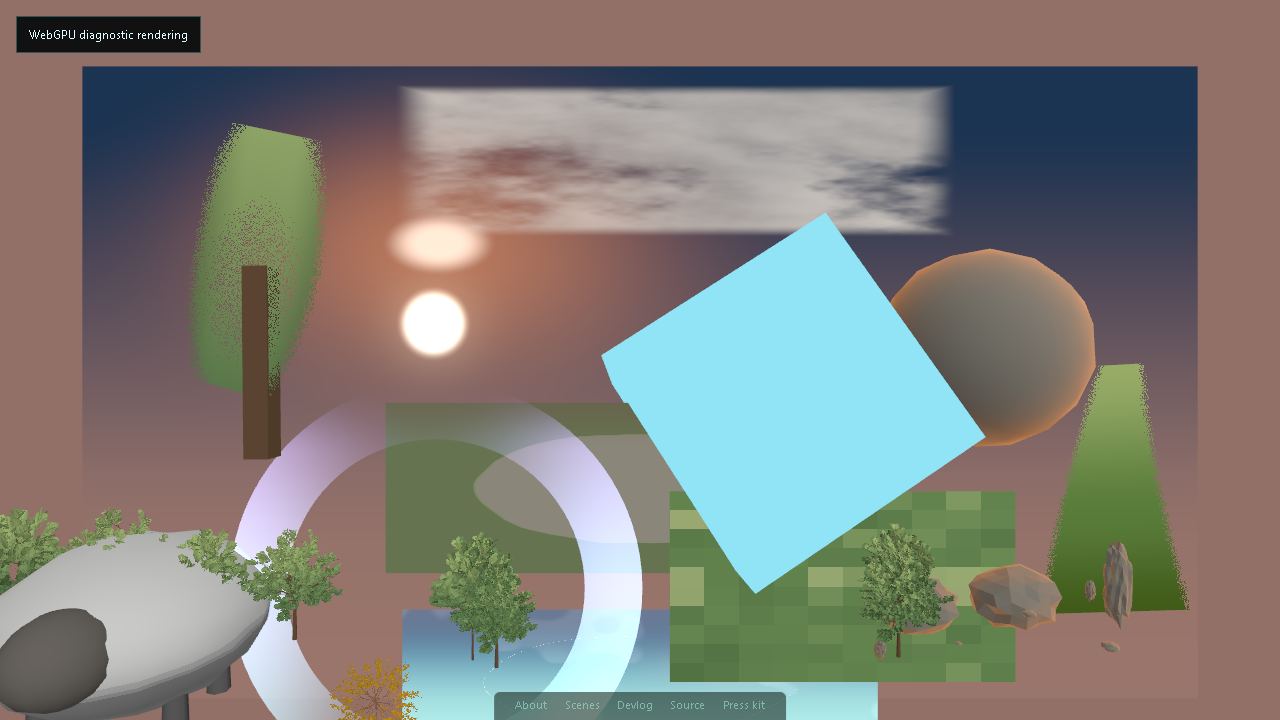
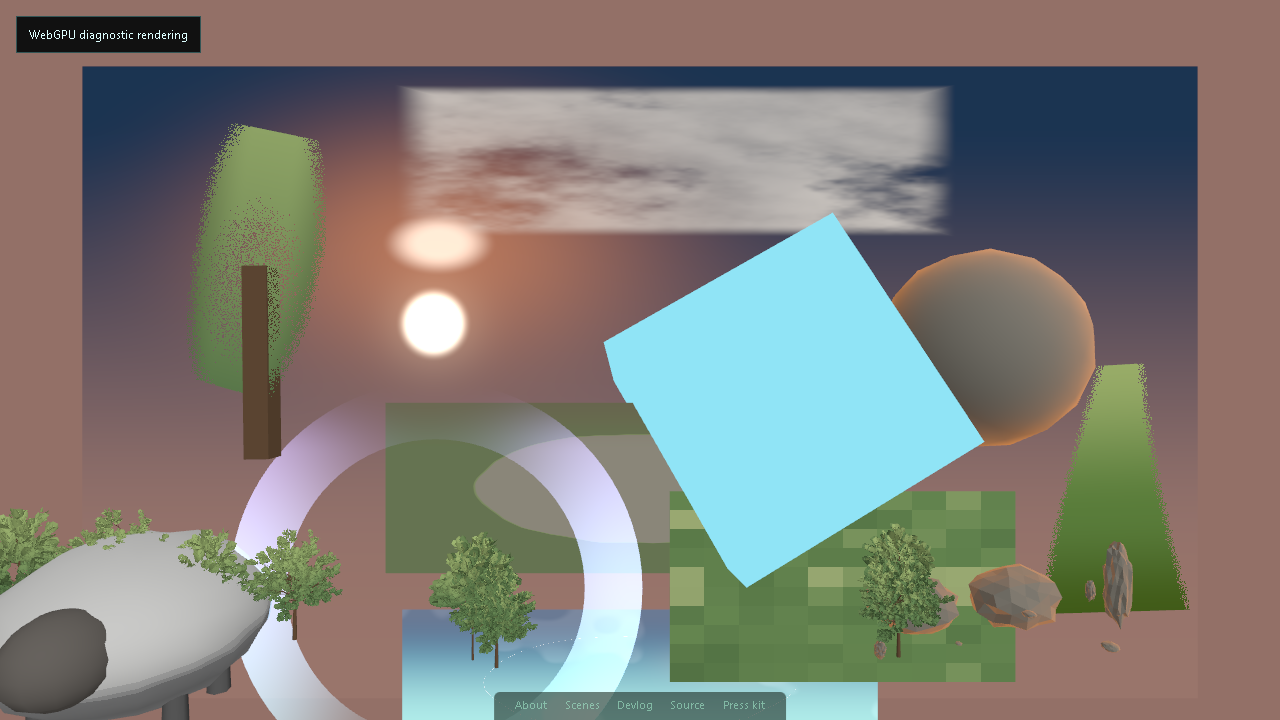
feat(konveyor): blend kiln impostor atlas tiles

diff --git a/js/diagnostics/webgpuDiagnostic.js b/js/diagnostics/webgpuDiagnostic.js
@@ -346,11 +346,14 @@ export function createKilnImpostorDiagnosticState(skyFog = createSkyFogDiagnosti
         sunColor: skyFog.sunColor,
         sunDirection: skyFog.sunDirection,
         ambientColor: [0.55, 0.55, 0.58],
+        tileBlendTiles: [[0, 0], [1, 0], [0, 1]],
+        tileBlendWeights: [0.58, 0.27, 0.15],
         fogColor: skyFog.fogColor,
         fogNear: skyFog.fogNear,
         fogFar: skyFog.fogFar,
-        atlasSampling: 'single-tile-albedo',
-        tileBlend: 'deferred',
+        atlasSampling: 'three-tile-albedo-normal',
+        tileBlend: 'static-three-tile-premultiplied',
+        viewDrivenTileSelection: 'deferred',
         relighting: 'single-tile-normal-aux',
         parallax: 'deferred',
         depthDiscard: 'deferred',
@@ -530,15 +533,32 @@ function syncKilnImpostorState(target, sidecar) {
 }
 
 function createKilnImpostorNodeMaterial({ MeshBasicNodeMaterial, DoubleSide, TSL }, kilnImpostor, albedoAtlas, normalAtlas) {
-    const { dot, length, max, mix, normalize, smoothstep, texture, uv, positionView, vec2, vec3 } = TSL;
-    const tileUv = uv().mul(vec2(1 / kilnImpostor.tilesX, 1 / kilnImpostor.tilesY))
-        .add(vec2(0, (kilnImpostor.tilesY - 1) / kilnImpostor.tilesY));
-    const atlasSample = texture(albedoAtlas, tileUv);
-    const normalSample = texture(normalAtlas, tileUv).rgb.mul(2.0).sub(vec3(1.0, 1.0, 1.0));
-    const relightNormal = normalize(normalSample);
+    const { clamp, dot, length, max, mix, normalize, smoothstep, texture, uv, positionView, vec2, vec3 } = TSL;
+    const tileScale = vec2(1 / kilnImpostor.tilesX, 1 / kilnImpostor.tilesY);
+    const tileInset = vec2(
+        0.5 / kilnImpostor.atlasSize[0] / tileScale.x,
+        0.5 / kilnImpostor.atlasSize[1] / tileScale.y
+    );
+    const tileLocalUv = clamp(uv(), tileInset, vec2(1.0, 1.0).sub(tileInset));
+    const tileUv = ([azIdx, elIdx]) => tileLocalUv.mul(tileScale)
+        .add(vec2(azIdx / kilnImpostor.tilesX, (kilnImpostor.tilesY - 1 - elIdx) / kilnImpostor.tilesY));
+    const [tile0, tile1, tile2] = kilnImpostor.tileBlendTiles;
+    const [w0, w1, w2] = kilnImpostor.tileBlendWeights;
+    const albedo0 = texture(albedoAtlas, tileUv(tile0));
+    const albedo1 = texture(albedoAtlas, tileUv(tile1));
+    const albedo2 = texture(albedoAtlas, tileUv(tile2));
+    const alphaBlend = albedo0.a.mul(w0).add(albedo1.a.mul(w1)).add(albedo2.a.mul(w2));
+    const albedoPremul = albedo0.rgb.mul(albedo0.a).mul(w0)
+        .add(albedo1.rgb.mul(albedo1.a).mul(w1))
+        .add(albedo2.rgb.mul(albedo2.a).mul(w2));
+    const atlasRgb = albedoPremul.div(max(alphaBlend, 0.0001));
+    const normal0 = texture(normalAtlas, tileUv(tile0)).rgb.mul(2.0).sub(vec3(1.0, 1.0, 1.0));
+    const normal1 = texture(normalAtlas, tileUv(tile1)).rgb.mul(2.0).sub(vec3(1.0, 1.0, 1.0));
+    const normal2 = texture(normalAtlas, tileUv(tile2)).rgb.mul(2.0).sub(vec3(1.0, 1.0, 1.0));
+    const relightNormal = normalize(normal0.mul(w0).add(normal1.mul(w1)).add(normal2.mul(w2)));
     const sunDirection = normalize(vec3(...kilnImpostor.sunDirection));
     const wrappedSun = max(dot(relightNormal, sunDirection), 0.0).mul(0.65).add(0.35);
-    const relitColor = atlasSample.rgb.mul(
+    const relitColor = atlasRgb.mul(
         vec3(...kilnImpostor.ambientColor).add(vec3(...kilnImpostor.sunColor).mul(wrappedSun.mul(0.42)))
     );
     const viewDistance = length(positionView);
@@ -547,7 +567,7 @@ function createKilnImpostorNodeMaterial({ MeshBasicNodeMaterial, DoubleSide, TSL
     const material = new MeshBasicNodeMaterial();
     material.name = 'konveyor-node-kiln-impostor';
     material.colorNode = mix(relitColor, vec3(...kilnImpostor.fogColor), fogBlend);
-    material.opacityNode = atlasSample.a;
+    material.opacityNode = alphaBlend;
     material.transparent = true;
     material.depthWrite = true;
     material.depthTest = true;

diff --git a/tests/webgpu-diagnostic.spec.js b/tests/webgpu-diagnostic.spec.js
@@ -213,9 +213,12 @@ describe('webgpu diagnostic sky fog state', () => {
     expect(kiln.sunColor).toBe(skyFog.sunColor);
     expect(kiln.sunDirection).toBe(skyFog.sunDirection);
     expect(kiln.ambientColor).toHaveLength(3);
+    expect(kiln.tileBlendTiles).toEqual([[0, 0], [1, 0], [0, 1]]);
+    expect(kiln.tileBlendWeights).toEqual([0.58, 0.27, 0.15]);
     expect(kiln.fogColor).toBe(skyFog.fogColor);
-    expect(kiln.atlasSampling).toBe('single-tile-albedo');
-    expect(kiln.tileBlend).toBe('deferred');
+    expect(kiln.atlasSampling).toBe('three-tile-albedo-normal');
+    expect(kiln.tileBlend).toBe('static-three-tile-premultiplied');
+    expect(kiln.viewDrivenTileSelection).toBe('deferred');
     expect(kiln.relighting).toBe('single-tile-normal-aux');
     expect(kiln.parallax).toBe('deferred');
     expect(kiln.depthDiscard).toBe('deferred');

diff --git a/docs/archive/research/konveyor-shader-surface-inventory-2026-05-14.md b/docs/archive/research/konveyor-shader-surface-inventory-2026-05-14.md
@@ -31,11 +31,12 @@ terms, and sky/fog handoff while recording `instanceData`,
 `instanceAnimation`, and `vertexId` as deferred production instancing inputs.
 A diagnostic Kiln impostor island now fetches the committed `tree1` sidecar and
 albedo/normal atlases, samples one atlas tile in a WebGPU node material, and
-uses the normal aux layer for a single-tile sun relight keyed to the sky/fog
-packet. It still records tile blend, depth aux use, parallax, depth discard,
-and production LOD wiring as deferred. Production grass, sheep, Kiln impostors,
-water, and terrain wiring remain deferred until scene binding and screenshot
-proof cover the shipped island scenes. GLB
+uses the normal aux layer for a sun relight keyed to the sky/fog packet. It now
+blends three fixed atlas tiles with premultiplied alpha in the diagnostic TSL
+path, while keeping view-driven tile selection, depth aux use, parallax, depth
+discard, and production LOD wiring deferred. Production grass, sheep, Kiln
+impostors, water, and terrain wiring remain deferred until scene binding and
+screenshot proof cover the shipped island scenes. GLB
 material ownership proof now shows that tree LOD0/LOD1
 assets have stable `branches` and `leaves`
 materials, while rock assets currently expose runtime-default primitive
@@ -74,7 +75,7 @@ terrain, grass, water, sheep, or Kiln impostors.
 | 6 | Terrain ground | `js/TerrainBuilder.js` | Heightfield-displaced terrain with procedural ground color and Three fog chunks. | High. It is the base surface of every production scene and uses fog chunks. | Diagnostic terrain-heightfield TSL island now samples the real Rolling Hills heightfield texture for height-based ground color and fog input. Production terrain remains WebGL. | Refactor-baseline terrain hash untouched, screenshots, perf. |
 | 7 | Grass blades | `js/GrassSystem.js`, `js/shaders/grass/*.glsl` | Instanced blade geometry, wind, interaction, LOD fade, fake SSS, manual fog. | Very high. It owns interaction feel and high-count perf. | Diagnostic grass-blade TSL material now covers production default gradient colors, analytic wind/gust/flutter displacement, alpha hash, and sky/fog handoff. Interaction bending, distance fade, production instancing, and compute/trample experiments remain deferred. | Perf, latency, visual, mobile profile, interaction smoke. |
 | 8 | Sheep instancing | `js/OptimizedSheep.js`, `js/shaders/sheep/*.glsl` | Instanced sheep geometry, animation attributes, vertex colors, manual fog. | Very high. It touches core gameplay scale and animation feel. | Diagnostic sheep-wool TSL material now covers toon/wool colors, procedural wool displacement, rim/SSS terms, and sky/fog handoff. Production `InstancedMesh`, `instanceData`, `instanceAnimation`, `vertexId`, terrain grounding, and high-count animation remain deferred. | Sim fixtures unchanged, smoke, perf high-count modes. |
-| 9 | Kiln tree impostors | `js/kiln-impostor-material.js` | Atlas-sampled tree impostors with relighting, alpha hash, fog, parallax/depth scaffolding. | Very high. It is asset-pipeline coupled and must match LOD0 color. | Diagnostic one-species TSL island now fetches the `tree1` sidecar plus albedo/normal atlases, samples one tile with alpha/fog, and relights it from the normal aux layer. Barycentric tile blend, depth aux use, parallax, depth discard, production LOD, and LOD color matching remain deferred. | LOD color-match artifacts, tree visibility, perf, screenshots. |
+| 9 | Kiln tree impostors | `js/kiln-impostor-material.js` | Atlas-sampled tree impostors with relighting, alpha hash, fog, parallax/depth scaffolding. | Very high. It is asset-pipeline coupled and must match LOD0 color. | Diagnostic one-species TSL island now fetches the `tree1` sidecar plus albedo/normal atlases, blends three fixed atlas tiles with premultiplied alpha, and relights from the normal aux layer. View-driven tile selection, depth aux use, parallax, depth discard, production LOD, and LOD color matching remain deferred. | LOD color-match artifacts, tree visibility, perf, screenshots. |
 | 10 | Procedural mountains | `js/ProceduralMountains.js`, `js/shaders/proceduralMountainsShader.js` | Inactive standalone horizon ring. `TerrainBuilder.addMountains()` returns no meshes. | Low as a blocker, but misleading as migration scope. | Do not port now. Delete or re-scope when a real horizon ring is approved. | None until reactivated. |
 
 ## Active onBeforeCompile Patch Chains
@@ -197,10 +198,11 @@ comments:
    The sheep-wool island is likewise material evidence only; it does not yet
    prove production `OptimizedSheep` instancing, animation attributes, terrain
    grounding, multiplayer-safe visual parity, or high-count perf. The Kiln
-   island proves sidecar/atlas fetch, WebGPU texture sampling, and single-tile
-   normal-aux relighting only; it does not yet prove barycentric tile blending,
-   depth aux use, parallax, depth-discard ghost suppression, production LOD
-   wiring, or color parity against LOD0.
+   island proves sidecar/atlas fetch, WebGPU texture sampling, normal-aux
+   relighting, and static three-tile premultiplied blending only; it does not
+   yet prove view-driven barycentric tile selection, depth aux use, parallax,
+   depth-discard ghost suppression, production LOD wiring, or color parity
+   against LOD0.
 
 ## Acceptance For The Next Code Island
 

diff --git a/docs/konveyor-autonomous-run.md b/docs/konveyor-autonomous-run.md
@@ -160,10 +160,10 @@ Recommended order:
    while explicitly deferring production `OptimizedSheep` instancing,
    animation attributes, terrain grounding, and high-count perf. The Kiln
    impostor diagnostic island now fetches the committed `tree1` sidecar plus
-   albedo/normal atlases, samples one tile with alpha/fog in a WebGPU node
-   material, and relights it from the normal aux layer. Barycentric tile blend,
-   depth aux use, parallax, depth discard, production LOD wiring, and LOD0
-   color parity remain deferred. The rock-rim
+   albedo/normal atlases, blends three fixed atlas tiles with premultiplied
+   alpha/fog in a WebGPU node material, and relights from the normal aux layer.
+   View-driven tile selection, depth aux use, parallax, depth discard,
+   production LOD wiring, and LOD0 color parity remain deferred. The rock-rim
    TSL prototype covers the smallest `onBeforeCompile`
    replacement formula, and the tree-leaf TSL prototype covers wind,
    alpha-hash posture, and occluder fade inputs. GLB material ownership proof
@@ -186,10 +186,10 @@ Recommended order:
 2. **Keep measurement attached to every change.** Run the relevant perf,
    latency, screenshot, test, lint, and build gates before claiming progress.
 3. **Treat EZ-Tree refresh as a measured tree phase, not a side edit.** The
-   repo already resolves `@dgreenheck/ez-tree` 1.1.0, which is the current npm
-   latest as of 2026-05-14. Upstream `main` has unreleased tree-generation
-   changes around softer leaf normals, corrected growth force, and stratified
-   child branch/leaf placement
+   repo already resolves `@dgreenheck/ez-tree` 1.1.0, which is still the
+   current npm latest as of 2026-05-15. Upstream `main` has unreleased
+   tree-generation changes around softer leaf normals, corrected growth force,
+   stratified child branch/leaf placement, and externalized texture assets
    ([changelog](https://github.com/dgreenheck/ez-tree/blob/main/CHANGELOG.md)).
    Evaluate those before Phase 2/4 tree rebakes, but only accept regenerated
    GLBs with named visual and perf artifacts.

diff --git a/docs/konveyor-sds.md b/docs/konveyor-sds.md
@@ -65,10 +65,10 @@ As of 2026-05-14, SDS is not a WebGPU project yet.
   deferring production `OptimizedSheep` instancing, animation attributes,
   terrain grounding, and high-count perf. A one-species Kiln impostor
   diagnostic material fetches the committed `tree1` sidecar plus albedo/normal
-  atlases, samples one tile with alpha/fog in a WebGPU node material, and
-  relights it from the normal aux layer while explicitly deferring barycentric
-  tile blending, depth aux use, parallax, depth discard, production LOD wiring,
-  and LOD0 color parity. Production Rolling
+  atlases, blends three fixed atlas tiles with premultiplied alpha/fog in a
+  WebGPU node material, and relights from the normal aux layer while explicitly
+  deferring view-driven tile selection, depth aux use, parallax, depth discard,
+  production LOD wiring, and LOD0 color parity. Production Rolling
   Hills/Open Country replacement remains deferred before water/terrain/grass/sheep/Kiln
   wiring. A
   diagnostic material-replacement island proves tree replacement by
@@ -315,9 +315,10 @@ Check the current `@dgreenheck/ez-tree` release, re-bake only if there is a
 clear output or performance reason, and re-run GLB compression plus Kiln
 impostor bakes when silhouettes or materials change.
 
-As of 2026-05-14, npm latest for `@dgreenheck/ez-tree` is 1.1.0 and SDS already
-resolves that version. Upstream `main` has unreleased changes for softer leaf
-normals, corrected growth force, and stratified branch/leaf placement
+As of 2026-05-15, npm latest for `@dgreenheck/ez-tree` is still 1.1.0 and SDS
+already resolves that version. Upstream `main` has unreleased changes for
+softer leaf normals, corrected growth force, stratified branch/leaf placement,
+and externalized texture assets
 ([changelog](https://github.com/dgreenheck/ez-tree/blob/main/CHANGELOG.md)).
 That is a serious tree-refresh candidate for the WebGPU/native target, but it
 must run through the asset-gallery pick flow, GLB compression, Kiln impostor

diff --git a/progress.md b/progress.md
@@ -46,3 +46,4 @@ Current prompt for the next autonomous run: /goal On branch exp/konveyor-webgpu-
 - 2026-05-14: Added a diagnostic grass-blade TSL island covering production grass default gradient colors, analytic wind/gust/flutter displacement, alpha-hash posture, and sky/fog handoff. Interaction bending, distance fade, production instancing, and compute/trample experiments remain deferred; production grass and default WebGL remain untouched.
 - 2026-05-14: Added a diagnostic sheep-wool TSL island covering production sheep toon/wool colors, procedural wool displacement, rim/SSS lighting terms, and sky/fog handoff. Production `OptimizedSheep` instancing, animation attributes, terrain grounding, and high-count perf remain deferred; production sheep and default WebGL remain untouched.
 - 2026-05-14: Added a diagnostic Kiln impostor TSL island that fetches the committed `tree1` sidecar plus albedo/normal atlases, samples one tile with alpha/fog in WebGPU, and relights it from the normal aux layer. Tile blend, depth aux use, parallax, depth discard, production LOD, and LOD0 color parity remain deferred; production Kiln impostors and default WebGL remain untouched.
+- 2026-05-15: Advanced the Kiln impostor diagnostic from one-tile sampling to static three-tile premultiplied atlas blending with normal-aux relighting. View-driven tile selection, depth aux use, parallax, depth discard, production LOD, and LOD0 color parity remain deferred; production Kiln impostors and default WebGL remain untouched.

diff --git a/docs/archive/research/konveyor-atmosphere-ownership-2026-05-14.md b/docs/archive/research/konveyor-atmosphere-ownership-2026-05-14.md
@@ -64,3 +64,14 @@ inputs, and the diagnostic sky/fog island proves a renderer-visible material can
 share a renderless CPU-accessible horizon/sun/fog packet. Production sky, fog,
 terrain, water, grass, and impostor wiring still needs parity evidence before
 any default renderer path changes.
+
+## Cross-Project Lesson
+
+The relevant Terror in the Jungle atmosphere lesson is not to rebuild an
+expensive CPU LUT into every consumer. Its shipped contract keeps fog, ambient,
+water, terrain, and billboards sampling the same atmosphere state, while
+deferring heavier Hillaire-style LUT/cubemap backends until their lifecycle and
+budget are owned explicitly. SDS should keep the current CPU-visible sky/fog
+packet as the contract authority, then move work onto GPU textures only when a
+measured WebGPU path reduces cost or removes visible parity drift without
+splitting atmosphere ownership.
